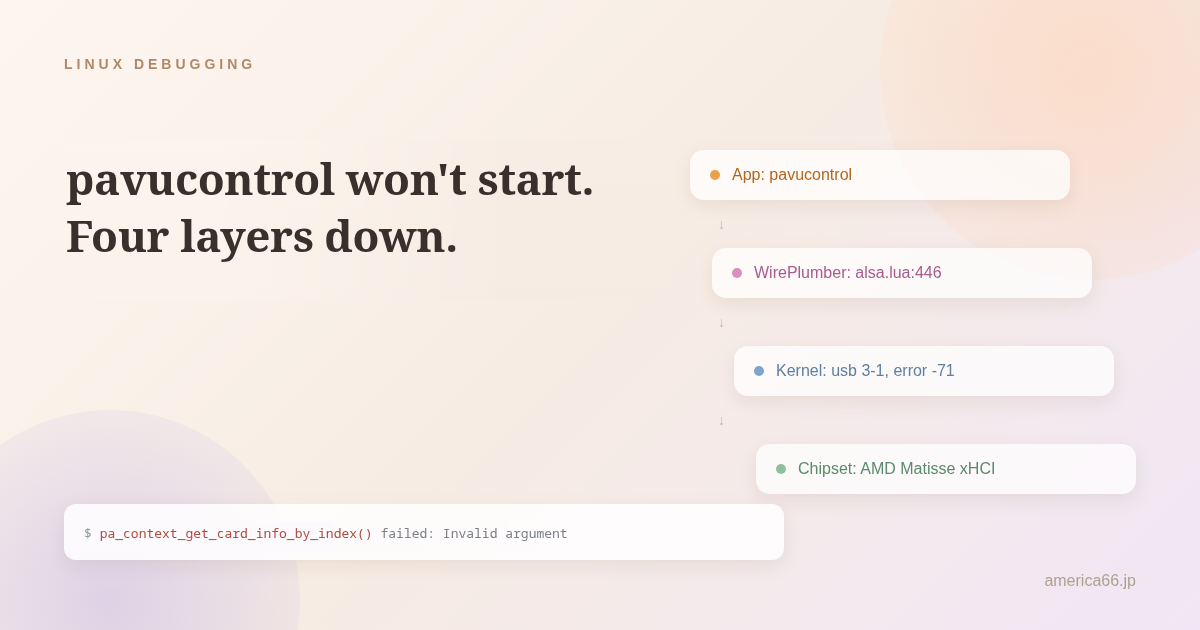
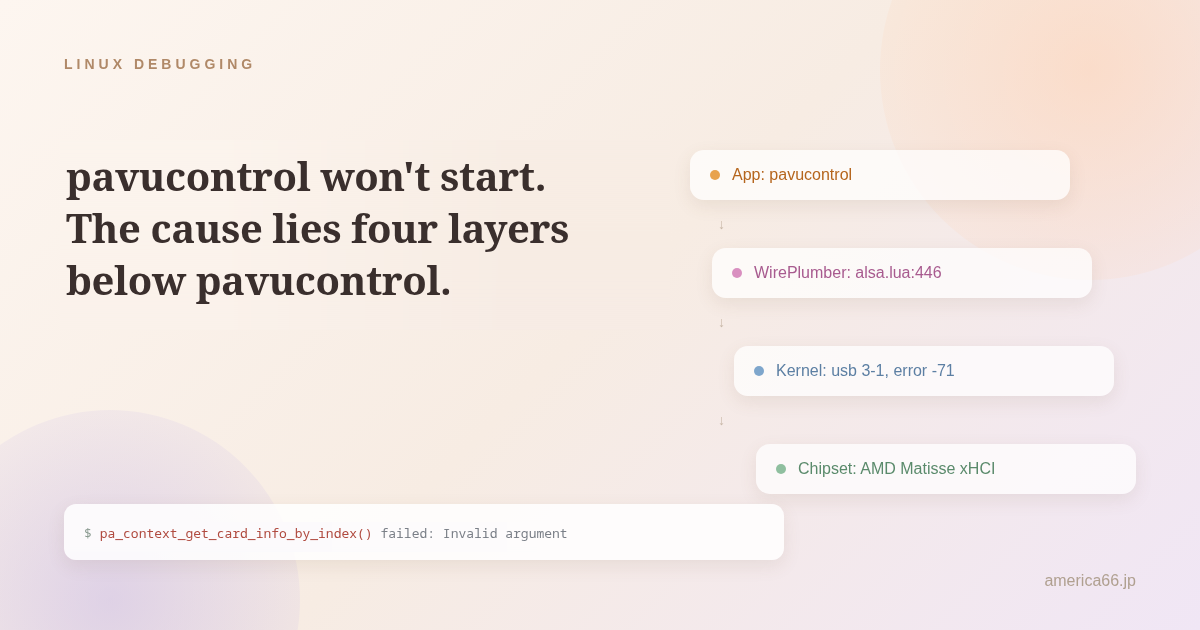
fix: pavucontrol英語版カバーの文言を、主語のある文に直す
「Four layers down.」は何が4層下か分からない(過剰圧縮型のスロップ表現)。
Codexの点検で指摘された案(The cause lies four layers below pavucontrol.)に直した。

Claude-Session: https://claude.ai/code/session_01AVPBFUhHVJ5Y1Hk3xLKURU

Changed region(s): [[0.0308, 0.2413, 0.4933, 0.4825]]

diff --git a/scripts/make_cover_en_illustrated.py b/scripts/make_cover_en_illustrated.py
@@ -33,9 +33,9 @@ COVERS = {
 """,
     },
     "2026-10-04-pavucontrol-wireplumber-usb-debugging": {
-        "patches": [(60, 140, 610, 160), (70, 522, 700, 30)],
+        "patches": [(60, 140, 610, 190), (70, 522, 700, 30)],
         "html": """
-<div style="position:absolute;left:66px;top:150px;font:600 44px/1.3 'Noto Serif';color:#3a2f2d;letter-spacing:-.01em">pavucontrol won't start.<br>Four layers down.</div>
+<div style="position:absolute;left:66px;top:150px;font:600 40px/1.3 'Noto Serif';color:#3a2f2d;letter-spacing:-.01em">pavucontrol won't start.<br>The cause lies four layers<br>below pavucontrol.</div>
 <div style="position:absolute;left:84px;top:527px;font:400 13px/1 'Noto Sans Mono';white-space:nowrap"><span style="color:#8a9a90">$</span> <span style="color:#b04a3f">pa_context_get_card_info_by_index()</span> <span style="color:#7a7f87">failed: Invalid argument</span></div>
 """,
     },
